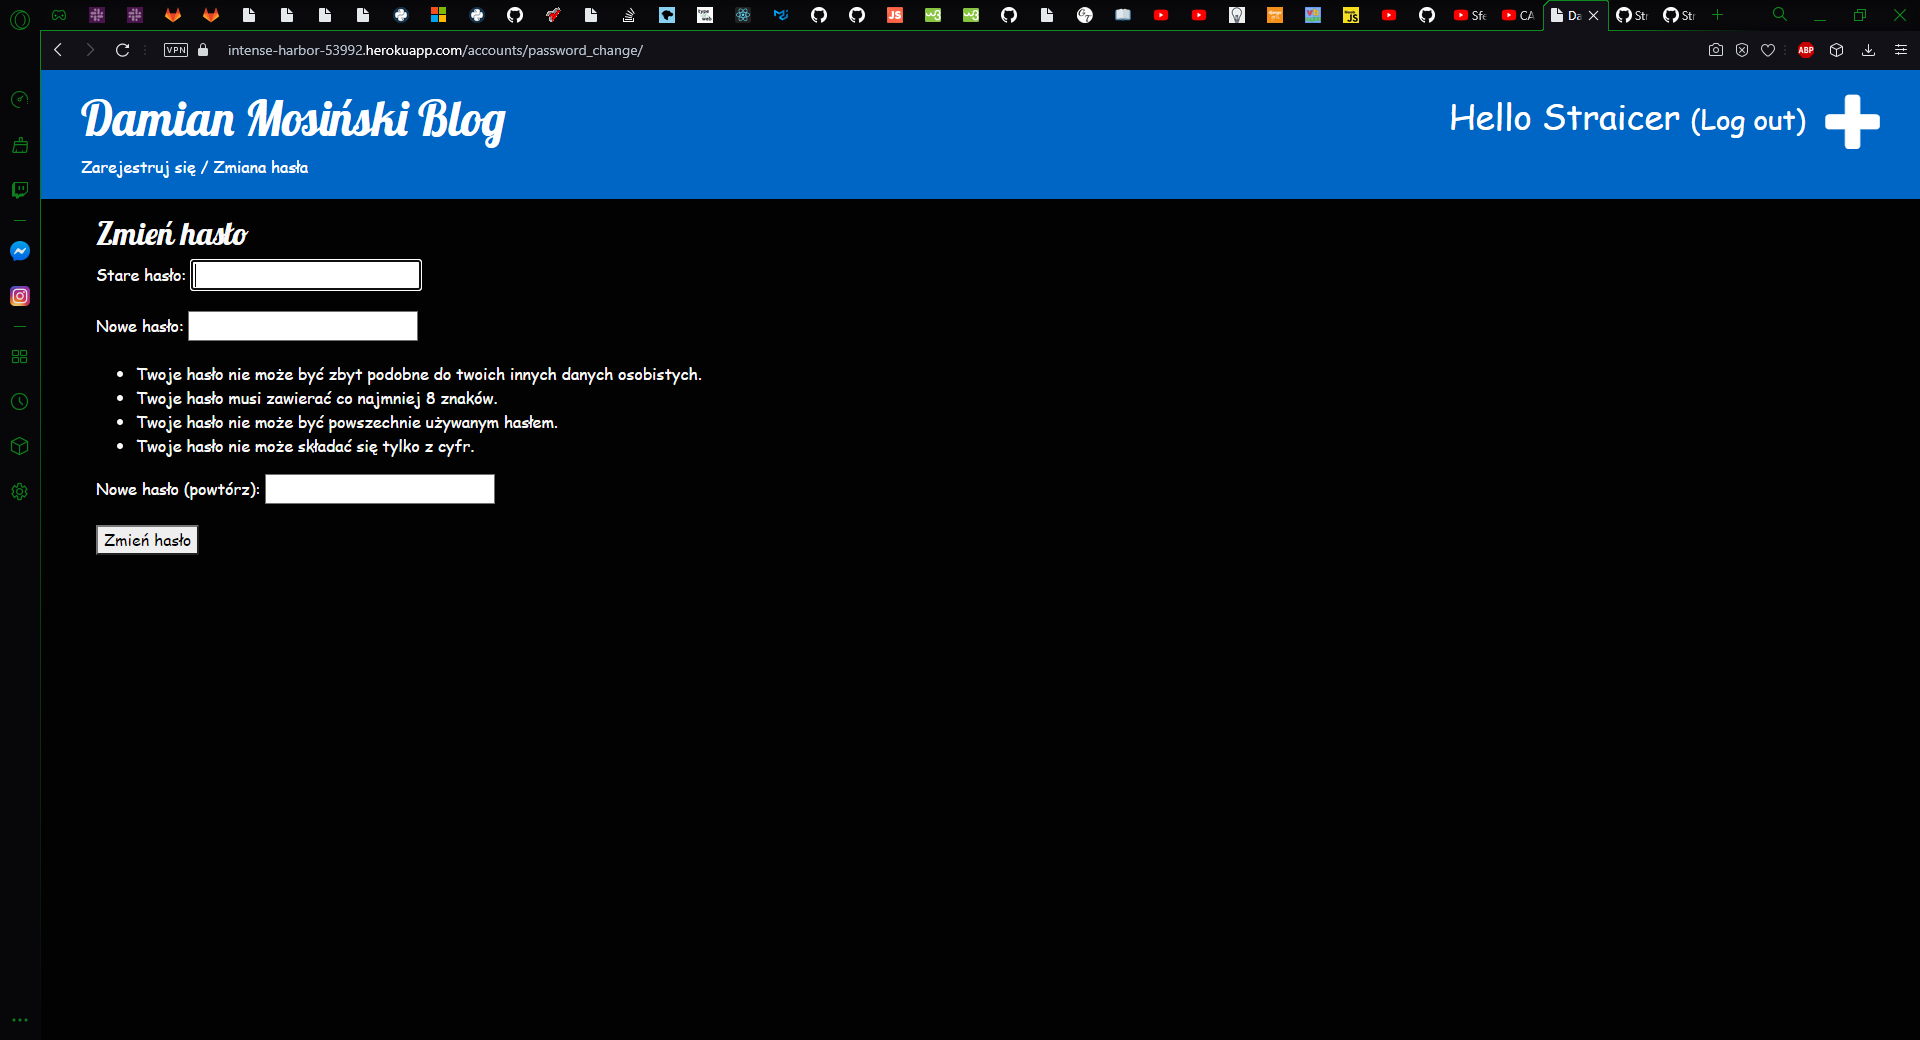
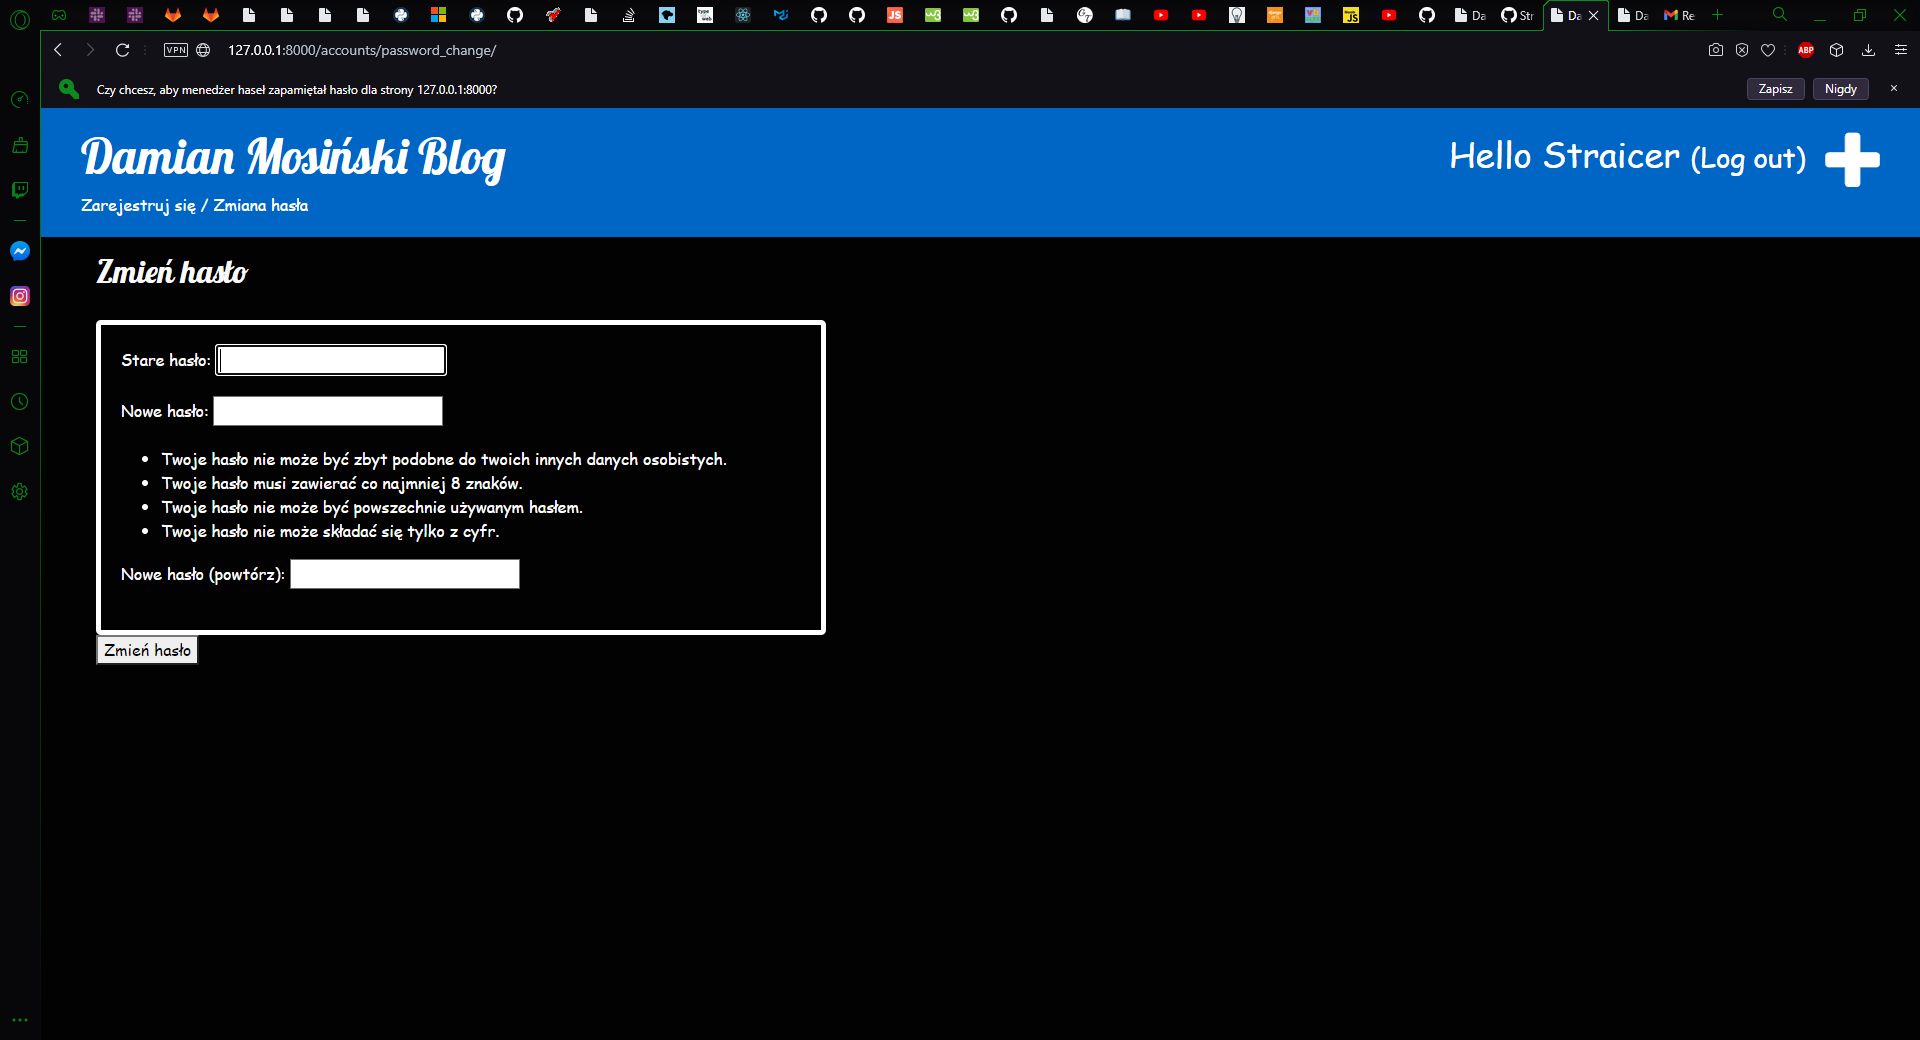
Commit32

Changed region(s): [[0.0, 0.0308, 1.0, 0.6462], [0.75, 0.0, 0.8125, 0.0308], [0.8438, 0.0, 0.875, 0.0308]]

diff --git a/blog/templates/registration/password_reset_confirm.html b/blog/templates/registration/password_reset_confirm.html
@@ -7,15 +7,17 @@
 
 <h1>Ustaw nowe hasło</h1>
 <form method="POST">
-            {% csrf_token %}
-            <fieldset class="form-group">
-                <legend class="border-bottom mb-4">Zresetuj hasło</legend>
-                {{ form.as_p }}
-            </fieldset>
-            <div class="form-group">
-                <button class="btn btn-outline-info" type="submit">Zresetuj hasło</button>
-            </div>
-        </form>
+{% csrf_token %}
+    <div class= "tabelalogin">
+        <fieldset class="form-group">
+        <legend class="border-bottom mb-4">Zresetuj hasło</legend>
+        {{ form.as_p }}
+        </fieldset>
+        <div class="form-group">
+            <button class="btn btn-outline-info" type="submit">Zresetuj hasło</button>
+        </div>
+    </div>
+</form>
 {% else %}
 
 {% endif %}

diff --git a/blog/templates/registration/password_reset.html b/blog/templates/registration/password_reset.html
@@ -1,8 +1,8 @@
 {% extends 'blog/base.html' %}
-{% block title %}Zapomniałeś hasło ?{% endblock %}
+{% block title %}Zapomniałeś hasła?{% endblock %}
 
 {% block content %}
-  <h1>Zapomniałeś hasło ?</h1>
+  <h1>Zapomniałeś hasła ?</h1>
   <p>Podaj swój e-mail a wyślemy na niego link do resetu hasła </p>
 
   <form method="POST">

diff --git a/blog/templates/registration/password_change_form.html b/blog/templates/registration/password_change_form.html
@@ -3,11 +3,14 @@
 {% block title %}Zmień hasło{% endblock %}
 
 {% block content %}
-   
+  
     <h2>Zmień hasło</h2>
     <form method="post">
+    <div class= "tabelalogin">
     {% csrf_token %}
     {{ form.as_p }}
+    </div>
     <button type="submit">Zmień hasło </button>
     </form>
+    
 {% endblock %}      

diff --git a/blog/templates/registration/signup.html b/blog/templates/registration/signup.html
@@ -6,8 +6,10 @@
    
     <h2>Zarejestruj się</h2>
     <form method="post">
+    <div class= "tabelalogin">
     {% csrf_token %}
     {{ form.as_p }}
     <button type="submit">Zarejestruj się </button>
+    </div>
     </form>
 {% endblock %}      

diff --git a/blog/templates/registration/password_reset_done.html b/blog/templates/registration/password_reset_done.html
@@ -1,6 +1,6 @@
 {% extends 'blog/base.html' %}
 
-{% block title %}Email wysłany{% endblock %}
+{% block title %}Email został wysłany{% endblock %}
 
 {% block content %}
   <h1>Sprawdź E-mail</h1>
